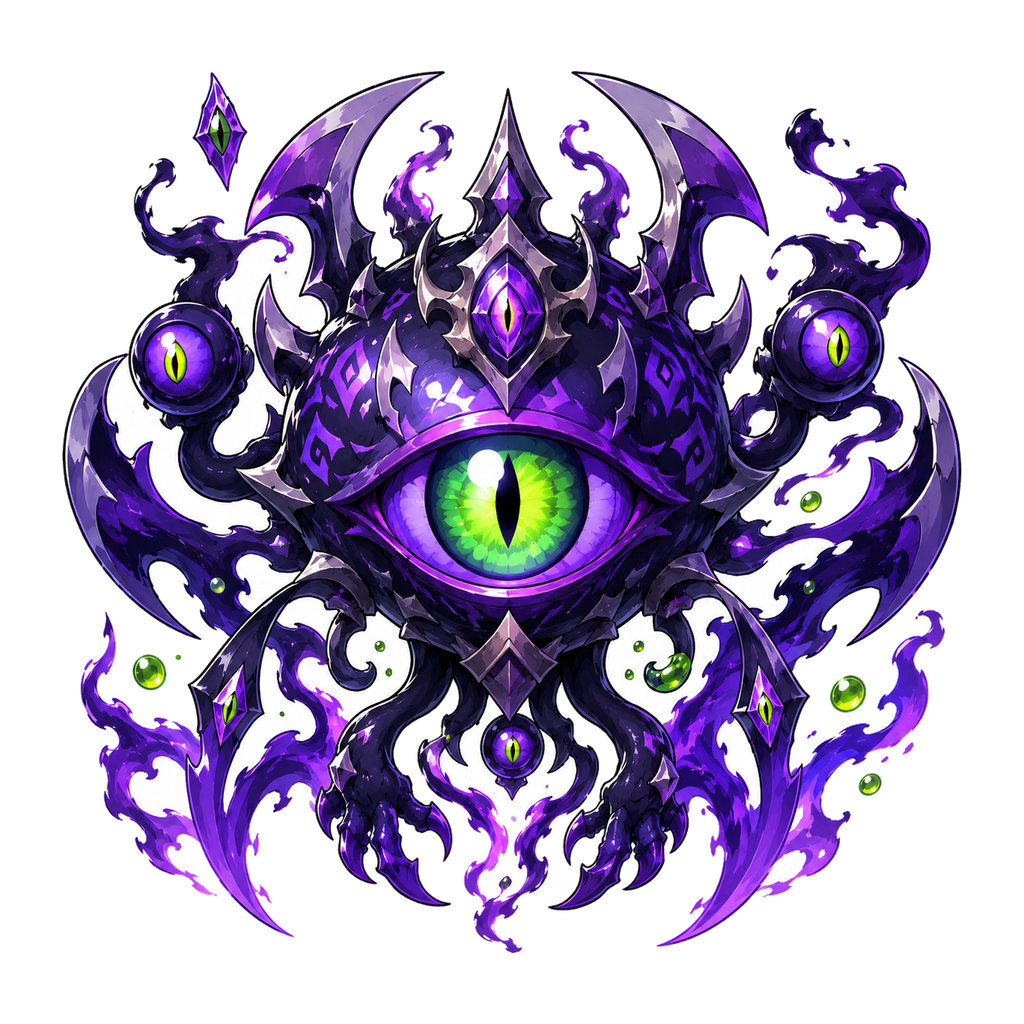
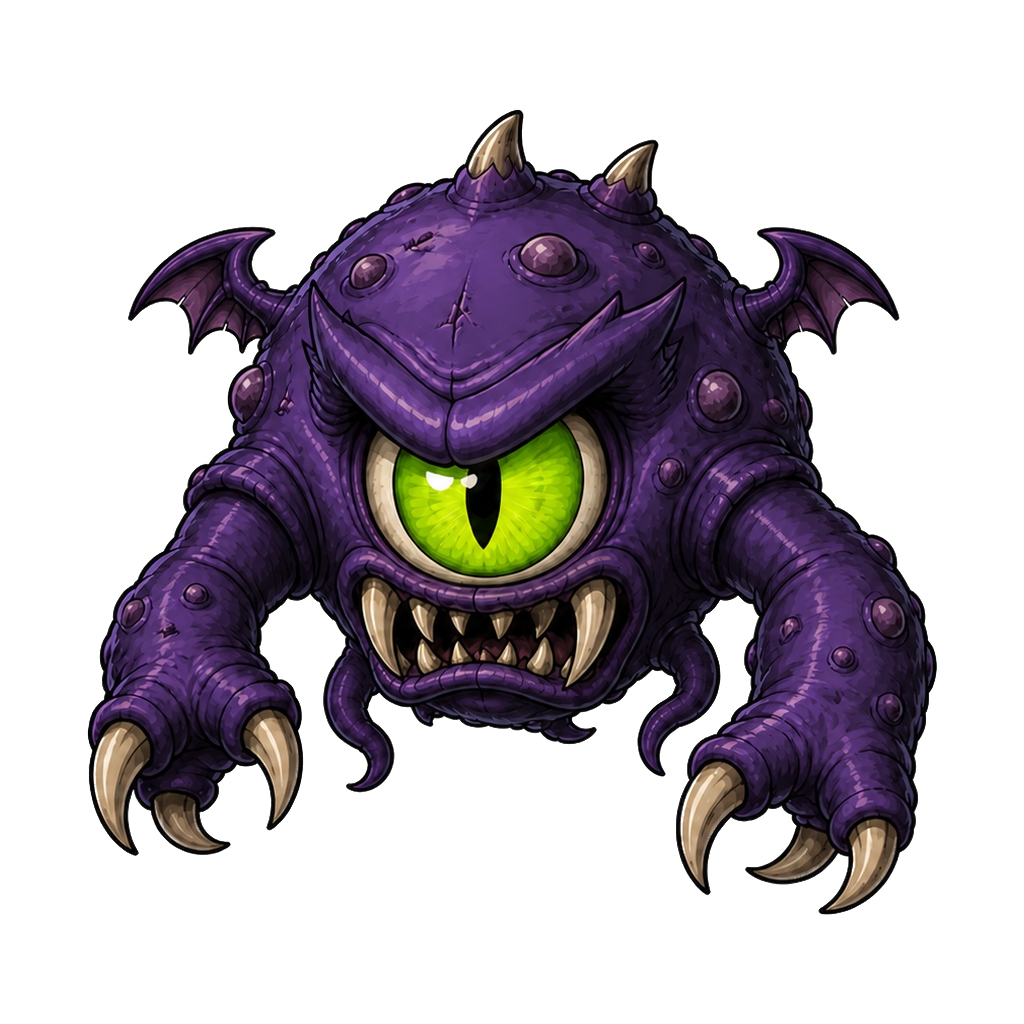
Release approved Demon Lord and Doom Gazer art

diff --git a/index.html b/index.html
@@ -8,11 +8,11 @@
   <meta name="apple-mobile-web-app-capable" content="yes" />
   <meta name="apple-mobile-web-app-status-bar-style" content="black-translucent" />
   <meta name="apple-mobile-web-app-title" content="Monster Links" />
-  <title>モンスターリンクス v8.6-A.66</title>
-  <link rel="manifest" href="manifest.webmanifest?v=8.6-A.66" />
+  <title>モンスターリンクス v8.6-A.67</title>
+  <link rel="manifest" href="manifest.webmanifest?v=8.6-A.67" />
   <link rel="icon" href="assets/images/ui/app-icon-192.png" sizes="192x192" />
   <link rel="apple-touch-icon" href="assets/images/ui/apple-touch-icon.png" />
-  <link rel="stylesheet" href="css/style.css?v=8.6-A.66" />
+  <link rel="stylesheet" href="css/style.css?v=8.6-A.67" />
 </head>
 <body>
   <div id="app" class="app"></div>
@@ -21,50 +21,50 @@
     v3.1: 公開後の見た目 polish。タイトル画面、図鑑、戦闘画面を見やすく調整。
     import/export や fetch(JSON) を使わないため、ローカルで開いても壊れにくい構成です。
   -->
-  <script src="js/core/config.js?v=8.6-A.66"></script>
-  <script src="js/core/balance.js?v=8.6-A.66"></script>
-  <script src="js/core/skills.js?v=8.6-A.66"></script>
-  <script src="js/core/monsters.js?v=8.6-A.66"></script>
-  <script src="js/core/items.js?v=8.6-A.66"></script>
-  <script src="js/core/stages.js?v=8.6-A.66"></script>
-  <script src="js/core/arena.js?v=8.6-A.66"></script>
-  <script src="js/core/recipes.js?v=8.6-A.66"></script>
-  <script src="js/core/quests.js?v=8.6-A.66"></script>
-  <script src="js/core/data.js?v=8.6-A.66"></script>
-  <script src="js/core/utils.js?v=8.6-A.66"></script>
-  <script src="js/core/state.js?v=8.6-A.66"></script>
-  <script src="js/app.js?v=8.6-A.66"></script>
-  <script src="js/systems/battle.js?v=8.6-A.66"></script>
-  <script src="js/systems/arena.js?v=8.6-A.66"></script>
-  <script src="js/systems/fusion.js?v=8.6-A.66"></script>
-  <script src="js/systems/monster.js?v=8.6-A.66"></script>
-  <script src="js/systems/shop.js?v=8.6-A.66"></script>
-  <script src="js/systems/quest.js?v=8.6-A.66"></script>
-  <script src="js/systems/devtools.js?v=8.6-A.66"></script>
-  <script src="js/systems/filters.js?v=8.6-A.66"></script>
-  <script src="js/systems/fusionGoals.js?v=8.6-A.66"></script>
-  <script src="js/systems/dex.js?v=8.6-A.66"></script>
-  <script src="js/views/layoutView.js?v=8.6-A.66"></script>
-  <script src="js/views/titleView.js?v=8.6-A.66"></script>
-  <script src="js/views/imageView.js?v=8.6-A.66"></script>
-  <script src="js/views/uiView.js?v=8.6-A.66"></script>
-  <script src="js/views/monsterComponents.js?v=8.6-A.66"></script>
-  <script src="js/views/fusionGoalsView.js?v=8.6-A.66"></script>
-  <script src="js/views/homeView.js?v=8.6-A.66"></script>
-  <script src="js/views/stageView.js?v=8.6-A.66"></script>
-  <script src="js/views/monsterView.js?v=8.6-A.66"></script>
-  <script src="js/views/fusionView.js?v=8.6-A.66"></script>
-  <script src="js/views/dexView.js?v=8.6-A.66"></script>
-  <script src="js/views/questView.js?v=8.6-A.66"></script>
-  <script src="js/views/shopView.js?v=8.6-A.66"></script>
-  <script src="js/views/settingsView.js?v=8.6-A.66"></script>
-  <script src="js/views/menuView.js?v=8.6-A.66"></script>
-  <script src="js/views/arenaView.js?v=8.6-A.66"></script>
-  <script src="js/views/helpView.js?v=8.6-A.66"></script>
-  <script src="js/views/devToolsView.js?v=8.6-A.66"></script>
-  <script src="js/views/battleView.js?v=8.6-A.66"></script>
-  <script src="js/views/render.js?v=8.6-A.66"></script>
-  <script src="js/pwa.js?v=8.6-A.66"></script>
-  <script src="js/main.js?v=8.6-A.66"></script>
+  <script src="js/core/config.js?v=8.6-A.67"></script>
+  <script src="js/core/balance.js?v=8.6-A.67"></script>
+  <script src="js/core/skills.js?v=8.6-A.67"></script>
+  <script src="js/core/monsters.js?v=8.6-A.67"></script>
+  <script src="js/core/items.js?v=8.6-A.67"></script>
+  <script src="js/core/stages.js?v=8.6-A.67"></script>
+  <script src="js/core/arena.js?v=8.6-A.67"></script>
+  <script src="js/core/recipes.js?v=8.6-A.67"></script>
+  <script src="js/core/quests.js?v=8.6-A.67"></script>
+  <script src="js/core/data.js?v=8.6-A.67"></script>
+  <script src="js/core/utils.js?v=8.6-A.67"></script>
+  <script src="js/core/state.js?v=8.6-A.67"></script>
+  <script src="js/app.js?v=8.6-A.67"></script>
+  <script src="js/systems/battle.js?v=8.6-A.67"></script>
+  <script src="js/systems/arena.js?v=8.6-A.67"></script>
+  <script src="js/systems/fusion.js?v=8.6-A.67"></script>
+  <script src="js/systems/monster.js?v=8.6-A.67"></script>
+  <script src="js/systems/shop.js?v=8.6-A.67"></script>
+  <script src="js/systems/quest.js?v=8.6-A.67"></script>
+  <script src="js/systems/devtools.js?v=8.6-A.67"></script>
+  <script src="js/systems/filters.js?v=8.6-A.67"></script>
+  <script src="js/systems/fusionGoals.js?v=8.6-A.67"></script>
+  <script src="js/systems/dex.js?v=8.6-A.67"></script>
+  <script src="js/views/layoutView.js?v=8.6-A.67"></script>
+  <script src="js/views/titleView.js?v=8.6-A.67"></script>
+  <script src="js/views/imageView.js?v=8.6-A.67"></script>
+  <script src="js/views/uiView.js?v=8.6-A.67"></script>
+  <script src="js/views/monsterComponents.js?v=8.6-A.67"></script>
+  <script src="js/views/fusionGoalsView.js?v=8.6-A.67"></script>
+  <script src="js/views/homeView.js?v=8.6-A.67"></script>
+  <script src="js/views/stageView.js?v=8.6-A.67"></script>
+  <script src="js/views/monsterView.js?v=8.6-A.67"></script>
+  <script src="js/views/fusionView.js?v=8.6-A.67"></script>
+  <script src="js/views/dexView.js?v=8.6-A.67"></script>
+  <script src="js/views/questView.js?v=8.6-A.67"></script>
+  <script src="js/views/shopView.js?v=8.6-A.67"></script>
+  <script src="js/views/settingsView.js?v=8.6-A.67"></script>
+  <script src="js/views/menuView.js?v=8.6-A.67"></script>
+  <script src="js/views/arenaView.js?v=8.6-A.67"></script>
+  <script src="js/views/helpView.js?v=8.6-A.67"></script>
+  <script src="js/views/devToolsView.js?v=8.6-A.67"></script>
+  <script src="js/views/battleView.js?v=8.6-A.67"></script>
+  <script src="js/views/render.js?v=8.6-A.67"></script>
+  <script src="js/pwa.js?v=8.6-A.67"></script>
+  <script src="js/main.js?v=8.6-A.67"></script>
 
 </html>

diff --git a/docs/design/style-reference-batch2-preview/index.html b/docs/design/style-reference-batch2-preview/index.html
@@ -4,7 +4,7 @@
   <meta charset="utf-8">
   <meta name="viewport" content="width=device-width,initial-scale=1,viewport-fit=cover">
   <meta name="theme-color" content="#183d64">
-  <title>モンスター刷新 第2弾・確認用</title>
+  <title>モンスター刷新 第2弾・正式版</title>
   <style>
     :root {
       color-scheme: light;
@@ -206,41 +206,41 @@
 <body>
   <main>
     <header>
-      <span class="review">REVIEW ONLY</span>
+      <span class="review">PRODUCTION / v8.6-A.67</span>
       <h1>モンスター刷新 第2弾</h1>
       <p>参考画像の「手描き感・太い輪郭・魔物らしい個性」へ戻し、SとAの格差が一目で分かるようにしました。</p>
-      <div class="notice"><strong>まだゲームには反映していません。</strong> この2案を見ていただき、承認後にだけ透過・スマホ調整をして正式採用します。</div>
+      <div class="notice"><strong>ゲームへ正式反映済みです。</strong> 透過・スマホ調整を行い、能力や配合を変えずに既存画像だけを差し替えました。</div>
     </header>
 
-    <section class="grid" aria-label="モンスター確認案">
+    <section class="grid" aria-label="正式版モンスター画像">
       <article>
         <figure>
-          <img src="demonlord-direction.png?v=review-1" width="1254" height="1254" alt="巨大な巻き角と赤紫の翼を持つ、筋骨隆々の紫色のデモンロード確認案" fetchpriority="high">
+          <img src="../../../assets/images/monsters/demonlord.png?v=8.6-A.67" width="1024" height="1024" alt="巨大な巻き角、第三眼、赤紫の大翼と大爪を持つ筋骨隆々のデモンロード正式版" fetchpriority="high">
           <span class="rank rank-s" aria-label="Sランク">S</span>
         </figure>
         <div class="copy">
           <h2>デモンロード</h2>
           <p class="role">Sランク｜魔王系</p>
           <p>巨大な巻き角、翼、体格、第三の眼で格上感を表現。宝石や発光エフェクトに頼らず、魔物そのものの迫力でSランクに見せています。</p>
-          <a class="direct" href="demonlord-direction.png?v=review-1">画像だけ大きく見る</a>
+          <a class="direct" href="../../../assets/images/monsters/demonlord.png?v=8.6-A.67">正式画像だけ大きく見る</a>
         </div>
       </article>
 
       <article>
         <figure>
-          <img src="doomgazer-direction.png?v=review-2" width="1254" height="1254" alt="鋭い緑の単眼と太い両腕、大きな爪を持つ紫色のドゥームゲイザーAランク強化案" loading="lazy">
+          <img src="../../../assets/images/monsters/doomgazer.png?v=8.6-A.67" width="1024" height="1024" alt="鋭い緑の単眼、太い両腕、大爪と牙を持つドゥームゲイザー正式版" loading="lazy">
           <span class="rank rank-a" aria-label="Aランク">A</span>
         </figure>
         <div class="copy">
           <h2>ドゥームゲイザー</h2>
           <p class="role">Aランク｜怪眼系</p>
           <p>単眼に加えて、鋭い眉骨・太い攻撃腕・大爪・牙を強化した上位A案。Sより翼・角・体格を抑え、危険な中ボス級に収めています。</p>
-          <a class="direct" href="doomgazer-direction.png?v=review-2">画像だけ大きく見る</a>
+          <a class="direct" href="../../../assets/images/monsters/doomgazer.png?v=8.6-A.67">正式画像だけ大きく見る</a>
         </div>
       </article>
     </section>
 
-    <footer>確認ポイント：デモンロードが明確に格上に見えるか／ドゥームゲイザーが虫ではなく「奇妙な魔物」に見えるか。ぷる系・能力・配合・ゲーム進行には一切変更を加えていません。</footer>
+    <footer>Sランクのデモンロードは大翼・巻き角・巨体、Aランクのドゥームゲイザーは単眼・攻撃腕・大爪を主役にしています。ぷる系・能力・配合・ゲーム進行は変更していません。</footer>
   </main>
 </body>
 </html>

diff --git a/docs/design/v8.6-A.61-character-directions/index.html b/docs/design/v8.6-A.61-character-directions/index.html
@@ -108,8 +108,8 @@
     <div class="grid">
       <article>
         <div class="label"><b>デモンロード</b><span>Sランク / 闇</span></div>
-        <figure><a href="../../../assets/images/monsters/demonlord.png?v=8.6-A.61"><img src="../../../assets/images/monsters/demonlord.png?v=8.6-A.61" width="1024" height="1024" alt="鋭い三つ目、巨大な巻き角、ぼろぼろの赤黒い翼と大爪を持つ紫黒のデモンロード正式版" fetchpriority="high"></a></figure>
-        <a class="open" href="../../../assets/images/monsters/demonlord.png?v=8.6-A.61">正式画像だけを大きく開く</a>
+        <figure><a href="../../../assets/images/monsters/legacy/v8.6-A.66-before-style-reset-batch2/demonlord.png?v=8.6-A.61"><img src="../../../assets/images/monsters/legacy/v8.6-A.66-before-style-reset-batch2/demonlord.png?v=8.6-A.61" width="1024" height="1024" alt="鋭い三つ目、巨大な巻き角、ぼろぼろの赤黒い翼と大爪を持つ紫黒のデモンロード正式版" fetchpriority="high"></a></figure>
+        <a class="open" href="../../../assets/images/monsters/legacy/v8.6-A.66-before-style-reset-batch2/demonlord.png?v=8.6-A.61">正式画像だけを大きく開く</a>
       </article>
       <article>
         <div class="label"><b>ゼニスドラゴン</b><span>Sランク / 光・竜</span></div>

diff --git a/js/core/config.js b/js/core/config.js
@@ -6,7 +6,7 @@
   const SLOT_PREFIX = "monster_links_slot_";
   const ACTIVE_SLOT_KEY = "monster_links_active_slot";
   const SLOT_COUNT = 3;
-  const GAME_VERSION = "8.6-A.66";
+  const GAME_VERSION = "8.6-A.67";
   const SAVE_SCHEMA_VERSION = 1;
   const DEV_PASSWORD = "rei-dev";
   const MAX_PARTY = 3;

diff --git a/service-worker.js b/service-worker.js
@@ -1,6 +1,6 @@
 "use strict";
 
-const VERSION = "8.6-A.66";
+const VERSION = "8.6-A.67";
 const CACHE_PREFIX = "monster-links-";
 const CACHE_NAME = `${CACHE_PREFIX}${VERSION}`;
 const VERSION_QUERY = `v=${VERSION}`;

diff --git a/js/pwa.js b/js/pwa.js
@@ -1,7 +1,7 @@
 (() => {
   "use strict";
 
-  const VERSION = "8.6-A.66";
+  const VERSION = "8.6-A.67";
   const MIN_UPDATE_INTERVAL = 60 * 1000;
   let lastUpdateCheck = 0;
 

diff --git a/docs/MONSTER_DARK_LINEAGE.md b/docs/MONSTER_DARK_LINEAGE.md
@@ -1,9 +1,16 @@
 # Monster Links 闇・毒系整理資料
 
 更新日: 2026-08-17
-対象バージョン: v8.6-A.66
+対象バージョン: v8.6-A.67
 資料種別: アート・系統整理メモ
-ゲーム反映状態: v8.6-A.66でエクリプスウルフをAランク相応の月蝕狼へ正式刷新
+ゲーム反映状態: v8.6-A.67でデモンロードとドゥームゲイザーをランク相応の闇系モンスターへ正式刷新
+
+## v8.6-A.67 実装メモ
+
+- `demonlord` は、巨大な巻き角、第三眼、赤紫の大翼、筋肉質な巨体、大爪と尾を持つSランク魔王へ刷新しました。
+- `doomgazer` は、鋭い巨大単眼、太い攻撃腕、大爪、牙を持つ上位Aランクの怪眼魔物へ刷新し、翼・角・画面占有はSランクより抑えました。
+- 宝石、重装鎧、副眼、光輪、浮遊結晶、過剰な発光を外し、モンスター本体の輪郭と解剖で格差を表現しました。
+- 既存ID、表示名、rank、type、size、能力、技、配合、ステージ、セーブ形式は変更していません。
 
 ## v8.6-A.66 実装メモ
 
@@ -30,8 +37,8 @@
 
 この文書は、Monster Links の「闇・毒系」モンスターの系統、役割、アート方針、現在のデザイン承認状況を整理するための資料です。
 
-ここでの「採用候補」「承認」は、白背景確認用デザインの方向性承認を意味します。  
-透明PNG化、画像ファイル差し替え、ランク変更、配合変更、ゲーム実装は、ユーザー確認後の別作業として扱います。
+文書内で「採用候補」と記した未反映項目は、確認用デザインの方向性承認を意味します。
+正式反映済みと記した項目は、ユーザー承認後に透過PNG化と画像差し替えまで完了しています。
 
 特にランクについては、現時点では「アート上の格・将来候補」として整理し、ゲーム内の実データはまだ変更しません。
 
@@ -66,8 +73,8 @@
 | 闇狼 | `duskwolf` | ヨミオオカミ | B | dark | v8.6-A.4実装済み | 黒紫の狼、闇炎、幽冥の獣。 |
 | 暗黒騎士 | `hellknight` | ヘルナイト | B | dark | v8.6-A.4実装済み | 紫炎をまとう暗黒騎士。剣盾の重装型。 |
 | 毒女王 | `venomqueen` | ヴェノムクイーン | B | dark | v8.6-A.4実装済み | 妖艶な毒の女王。見た目の格はA相当。 |
-| 呪眼魔物 | `doomgazer` | ドゥームゲイザー | A | dark | v8.6-A.4実装済み | 浮遊する巨大魔眼。呪い・視線・邪視の上位枠。 |
-| 魔王 | `demonlord` | デモンロード | S | dark | v8.6-A.4実装済み | 翼と重装鎧を持つ魔王。闇系の最上位。 |
+| 呪眼魔物 | `doomgazer` | ドゥームゲイザー | A | dark | v8.6-A.67正式刷新 | 鋭い巨大単眼、太い攻撃腕、大爪、牙を持つ上位Aランクの怪眼魔物。 |
+| 魔王 | `demonlord` | デモンロード | S | dark | v8.6-A.67正式刷新 | 巨大な巻き角、第三眼、赤紫の大翼と筋肉質な巨体を持つ闇系の最上位。 |
 | 虚無竜 | `voiddragon` | ヴォイドドラゴン | S | dark | v8.6-A.63正式刷新 | マットな黒鱗と紫縁の虚無裂傷を持つ有機的な最上位ドラゴン。 |
 | 月蝕狼 | `eclipsewolf` | エクリプスウルフ | A | dark | v8.6-A.66正式刷新 | 黒い毛並み、肩の三日月印、三日月形の尾を持つ地上型のAランク魔獣。 |
 | 悪夢角虫 | `nightmarestag` | ナイトメアスタッグ | A | dark | v8.6-A.4実装済み | 悪夢と巨大角を備えた上位魔獣。 |
@@ -81,9 +88,11 @@
 
 ## 3. 維持対象
 
-以下は、現行の承認済みデザインを維持する対象です。`eclipsewolf` はv8.6-A.66正式刷新後の姿を指します。
+以下は、現行の承認済みデザインを維持する対象です。`demonlord` と `doomgazer` はv8.6-A.67、`eclipsewolf` はv8.6-A.66正式刷新後の姿を指します。
 
 ```text
+demonlord    / デモンロード
+doomgazer    / ドゥームゲイザー
 eclipsewolf   / エクリプスウルフ
 nightmarestag / ナイトメアスタッグ
 venomchimera  / ヴェノムキマイラ
@@ -215,11 +224,11 @@ ID: doomgazer
 方向性:
 
 ```text
-巨大な単眼
-浮遊体
-紫・黒・毒緑の発光
-呪い・視線・魔眼の恐ろしさ
-Aランクらしい異様さ
+鋭い巨大単眼を唯一の主要な象徴にする
+浮遊する紫黒の有機体
+太い攻撃腕、大爪、牙で上位Aランクの戦闘力を示す
+小さな翼と短い角に抑え、Sランクの王格を持たせない
+毒緑の高輝度色は虹彩だけに集中させる
 ```
 
 ---
@@ -235,12 +244,11 @@ ID: demonlord
 方向性:
 
 ```text
-黒紫の魔王
-大きな翼
-禍々しい鎧
-赤紫の宝石
-闇のオーラ
-Sランク級のラスボス感
+黒紫の筋肉質な魔王
+巨大な巻き角と第三眼
+赤紫の大翼、大爪、長い尾
+宝石・重装鎧・オーラに頼らず、体格と解剖でSランクを示す
+闇系最上位にふさわしい支配者の威圧感
 ```
 
 ---

diff --git a/README.md b/README.md
@@ -1,6 +1,17 @@
-# Monster Links v8.6-A.66
+# Monster Links v8.6-A.67
 
 スマホでも遊べる、ソロ向けモンスター育成・配合RPGです。
+
+## v8.6-A.67 update
+
+- Rebuilt Demon Lord and Doom Gazer in the approved classic hand-drawn monster direction.
+- Preserved a clear S/A hierarchy: Demon Lord uses great curled horns, broad wings, a third eye, and greater body mass; Doom Gazer uses one giant eye, thick clawed arms, and fangs at a smaller scale.
+- Removed armor, gems, extra eyes, crystals, halos, and excessive visual effects from this pair.
+- Replaced only the two production PNGs while preserving IDs, ranks, stats, recipes, stages, progression, rewards, battle balance, and save data.
+- Kept every slime-family monster unchanged and archived the v8.6-A.66 originals for rollback.
+- Promoted the responsive [batch 2 monster-style gallery](docs/design/style-reference-batch2-preview/index.html) to the production assets.
+- Preserved save schema 1 and all existing save/storage keys.
+- Updated PWA/cache version to v8.6-A.67.
 
 ## v8.6-A.66 update
 
@@ -192,7 +203,7 @@
 ## 現在の安定版
 
 ```text
-v8.6-A.66 approved monster style reset — batch 1
+v8.6-A.67 approved monster style reset — batch 2
 ```
 
 ## v8.6-A.49 update

diff --git a/docs/PROJECT_SPEC_CHATGPT.md b/docs/PROJECT_SPEC_CHATGPT.md
@@ -1,7 +1,7 @@
 # Monster Links 現行プロジェクト仕様書
 
 更新日: 2026-08-17
-対象バージョン: v8.6-A.66
+対象バージョン: v8.6-A.67
 
 この文書は、普通のChatGPTや別の開発担当へプロジェクトを引き継ぐための現行仕様書です。
 古いdocsと内容が異なる場合は、この文書と実際のゲームコードを優先してください。
@@ -199,7 +199,7 @@ PNG
 
 ### 2026年6月7日時点の維持対象（履歴）
 
-以下は2026年6月7日に確認・実装済みとした当時の一覧です。現在は個別承認を優先し、`venomchimera` はv8.6-A.61、`celestiseraph` はv8.6-A.62、`omegaframe` はv8.6-A.63、`chaoswyrm` はv8.6-A.64、`phoenixdrake` と `eclipsewolf` はv8.6-A.66で正式刷新済みです。
+以下は2026年6月7日に確認・実装済みとした当時の一覧です。現在は個別承認を優先し、`venomchimera` と旧 `demonlord` はv8.6-A.61、`celestiseraph` はv8.6-A.62、`omegaframe` はv8.6-A.63、`chaoswyrm` はv8.6-A.64、`phoenixdrake` と `eclipsewolf` はv8.6-A.66、現行の `demonlord` と `doomgazer` はv8.6-A.67で正式刷新済みです。
 
 ```text
 phoenixdrake     フェニックスドレイク

diff --git a/docs/VERSION_HISTORY.md b/docs/VERSION_HISTORY.md
@@ -1,5 +1,17 @@
 # Version History
 
+## v8.6-A.67 Approved monster style reset — batch 2
+
+- Rebuilt Demon Lord and Doom Gazer around the approved classic hand-drawn monster direction.
+- Kept S-rank Demon Lord visibly above A-rank Doom Gazer through larger body mass, great curled horns, broad wings, and a third eye.
+- Strengthened Doom Gazer to an upper A-rank silhouette with one giant eye, thick attacking arms, large claws, and fangs without adding S-rank regalia or effects.
+- Removed armor, gems, extra eyes, crystals, halos, and excessive visual effects from this pair.
+- Kept all slime-family art unchanged.
+- Replaced only the two existing production PNGs while preserving monster IDs, ranks, stats, recipes, progression, rewards, stages, and battle balance.
+- Added true-alpha 1024 x 1024 assets and archived the v8.6-A.66 originals for rollback.
+- Preserved save schema 1 and every existing save/storage key.
+- Updated PWA/cache version to v8.6-A.67.
+
 ## v8.6-A.66 Approved monster style reset — batch 1
 
 - Rebuilt Phoenix Drake and Eclipse Wolf around the approved classic hand-drawn monster direction.

diff --git a/docs/CURRENT_VERSION.md b/docs/CURRENT_VERSION.md
@@ -1,3 +1,16 @@
+v8.6-A.67 approved monster style reset — batch 2
+GAME_VERSION to 8.6-A.67
+
+Main changes:
+- Rebuilt Demon Lord and Doom Gazer in the approved classic hand-drawn monster direction.
+- Preserved the S/A hierarchy with Demon Lord's giant curled horns, broad wings, third eye, and larger silhouette versus Doom Gazer's single eye, thick clawed arms, and smaller frame.
+- Replaced only the two existing production PNGs; monster IDs, ranks, stats, recipes, progression, rewards, stages, and battle balance are unchanged.
+- Kept every slime-family monster unchanged and archived the v8.6-A.66 art for rollback.
+- Added true-alpha 1024 x 1024 production assets and promoted the responsive comparison page to production status.
+- Preserved save schema 1, save keys, and all content IDs.
+- Updated PWA/cache version to v8.6-A.67.
+---
+
 v8.6-A.66 approved monster style reset — batch 1
 GAME_VERSION to 8.6-A.66
 
